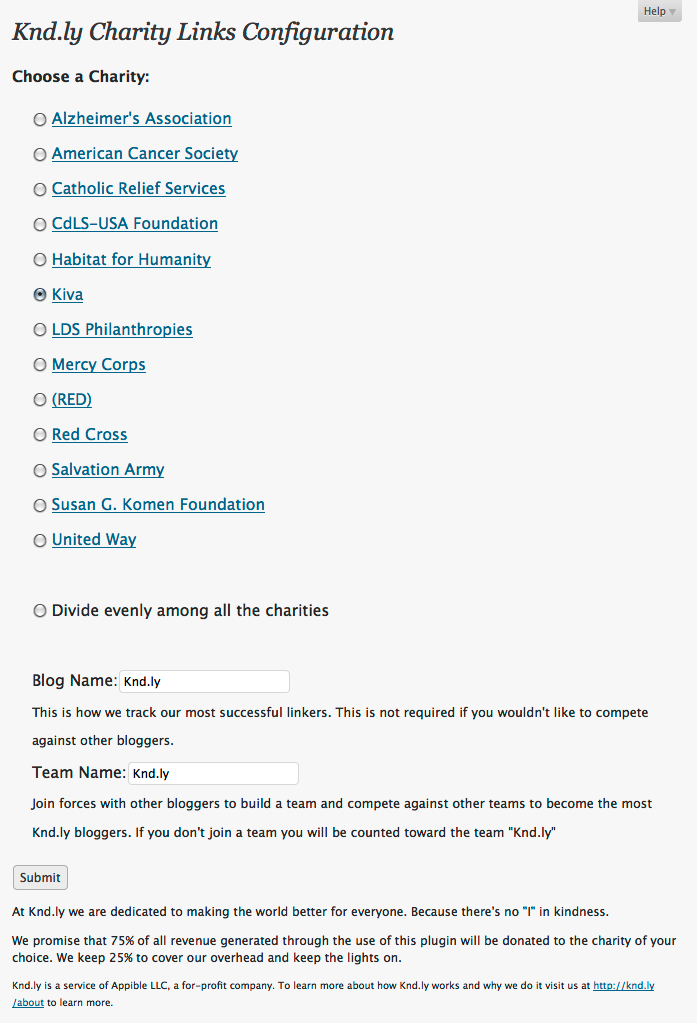
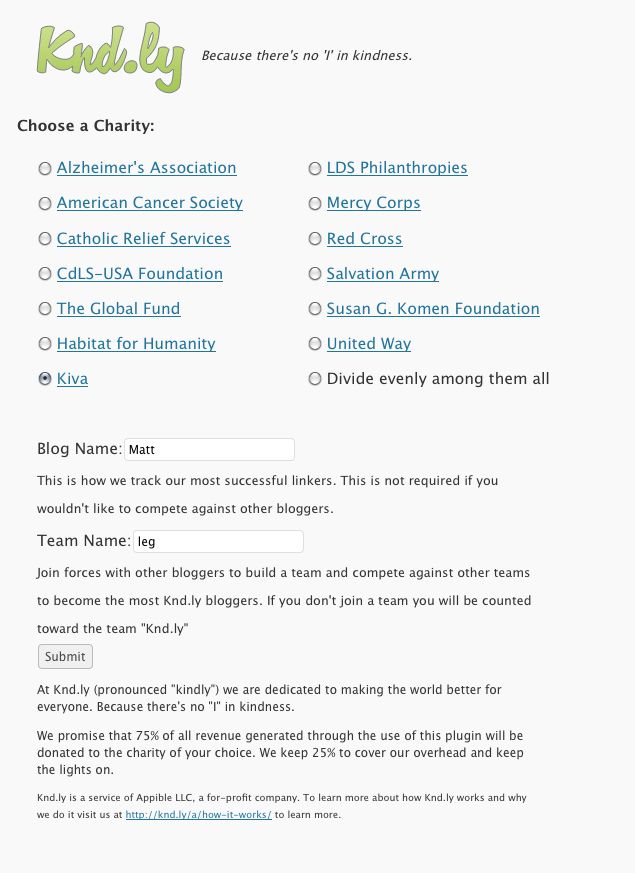
Updated the configuration page.
git-svn-id: https://plugins.svn.wordpress.org/kndly-charity-links/trunk@184070 b8457f37-d9ea-0310-8a92-e5e31aec5664

diff --git a/kndly-charity-links.php b/kndly-charity-links.php
@@ -4,7 +4,7 @@ Plugin Name: Knd.ly Charity Links
 Plugin URI: http://knd.ly/
 Description: Checks for links to Amazon products. If links are found they are converted in to clean affiliate links. All money generated through affiliate sales will be donated to the charity of your choice. <b>IMPORTANT NOTE</b>: the default option is for all money earned to be divided evenly between the charities we support. If you would like to support a specific charity (and donate much more money to them) you must choose that charity in the Knd.ly Config page.
 Author: Appible LLC
-Version: 1.0
+Version: 1.1
 Author URI: http://appible.org/
 */
 
@@ -69,7 +69,8 @@ function modify_menu_kndly_charity_links () {
   );  
 }
 function kndly_charity_links_options () {
-  echo '<div class="wrap"><h2>Knd.ly Charity Links Configuration</h2>';
+  echo '<div class="wrap"><br/><a href="http://knd.ly/"><img align="middle" src="'.WP_PLUGIN_URL.'/'.str_replace(basename( __FILE__),"",plugin_basename(__FILE__)).'kndly_logo.png"/></a>
+ <em>Because there\'s no \'I\' in kindness.</em>';
   if ($_REQUEST['submit']) {
     update_kndly_charity_links_options();
   }
@@ -149,7 +150,7 @@ function kndly_charity_links_form () {
   $form='
     <form method="post">
     <h3>Choose a Charity:</h3>
-	<div style="margin-left:20px; line-height:2.25;font-size:1.2em;">  
+	<div style="margin-left:20px;width:250px;line-height:2.25;font-size:1.2em;float:left;">  
     <input type="radio" name="kndly_charity_links_id" value="-kndly-alz" ';
   if($charity_id == "-kndly-alz") $form .= 'checked';
   $form .= '/> <a href="http://alz.org/">Alzheimer\'s Association</a><br/>
@@ -166,6 +167,10 @@ function kndly_charity_links_form () {
   if($charity_id == "-kndly-cdls") $form .= 'checked';
   $form .= '/> <a href="http://cdlsusa.org/">CdLS-USA Foundation</a><br/>
   
+    <input type="radio" name="kndly_charity_links_id" value="-kndly-globalfund" ';
+  if($charity_id == "-kndly-globalfund") $form .= 'checked';
+  $form .= '/> <a href="http://joinred.com/">The Global Fund</a><br/>
+  
     <input type="radio" name="kndly_charity_links_id" value="-kndly-habitat" ';
   if($charity_id == "-kndly-habitat") $form .= 'checked';
   $form .= '/> <a href="http://habitat.org/">Habitat for Humanity</a><br/>
@@ -173,7 +178,7 @@ function kndly_charity_links_form () {
     <input type="radio" name="kndly_charity_links_id" value="-kndly-kiva" ';
   if($charity_id == "-kndly-kiva") $form .= 'checked';
   $form .= '/> <a href="http://kiva.org/">Kiva</a><br/>
-
+    </div><div style="margin-left:20px;width:250px;line-height:2.25;font-size:1.2em;float:left;clear:right;">
     <input type="radio" name="kndly_charity_links_id" value="-kndly-lds" ';
   if($charity_id == "-kndly-lds") $form .= 'checked';
   $form .= '/> <a href="http://ldsphilanthropies.org/">LDS Philanthropies</a><br/>
@@ -181,10 +186,6 @@ function kndly_charity_links_form () {
     <input type="radio" name="kndly_charity_links_id" value="-kndly-mercycorps" ';
   if($charity_id == "-kndly-mercycorps") $form .= 'checked';
   $form .= '/> <a href="http://mercycorps.org/">  Mercy Corps</a><br/>
-  
-    <input type="radio" name="kndly_charity_links_id" value="-kndly-red" ';
-  if($charity_id == "-kndly-red") $form .= 'checked';
-  $form .= '/> <a href="http://joinred.com/">(RED)</a><br/>
   
     <input type="radio" name="kndly_charity_links_id" value="-kndly-redcross" ';
   if($charity_id == "-kndly-redcross") $form .= 'checked';
@@ -202,22 +203,22 @@ function kndly_charity_links_form () {
   if($charity_id == "-kndly-unitedway") $form .= 'checked';
   $form .= '/> <a href="http://liveunited.org/">United Way</a><br/>
 
-
-  <br/>
     <input type="radio" name="kndly_charity_links_id" value="-kndly" ';
   if($charity_id == "-kndly") $form .= 'checked';
-  $form .= '/> Divide evenly among all the charities<br/>
+  $form .= '/> Divide evenly among them all<br/>
+  </div>
+  <div style="margin-left:20px;width:500px;line-height:2.25;font-size:1.2em;float:left;clear:left;">
     <br />
 	Blog Name:<input type="text" name="kndly_blog_id" value="'.get_option('kndly_blog_id').'" />
 	<br/><small>This is how we track our most successful linkers. This is not required if you wouldn\'t like to compete against other bloggers.</small>
 	<br/>
 	Team Name:<input type="text" Name="kndly_team_id" value="'.get_option('kndly_team_id').'" />
 	<br/><small>Join forces with other bloggers to build a team and compete against other teams to become the most Knd.ly bloggers. If you don\'t join a team you will be counted toward the team "Knd.ly"</small>
-	</div>
+	
 	<br/>
     <input type="submit" name="submit" value="Submit" />
     </form>
-    <p>At Knd.ly we are dedicated to making the world better for everyone. Because there\'s no "I" in kindness.</p><p>We promise that 75% of all revenue generated through the use of this plugin will be donated to the charity of your choice. We keep 25% to cover our overhead and keep the lights on.</p><p><small>Knd.ly is a service of Appible LLC, a for-profit company. To learn more about how Knd.ly works and why we do it visit us at <a href="http://knd.ly/about">http://knd.ly/about</a> to learn more.</small></p>';
+    <p>At Knd.ly (pronounced "kindly") we are dedicated to making the world better for everyone. Because there\'s no "I" in kindness.</p><p>We promise that 75% of all revenue generated through the use of this plugin will be donated to the charity of your choice. We keep 25% to cover our overhead and keep the lights on.</p><p><small>Knd.ly is a service of Appible LLC, a for-profit company. To learn more about how Knd.ly works and why we do it visit us at <a href="http://knd.ly/a/how-it-works/">http://knd.ly/a/how-it-works/</a> to learn more.</small></p></div>';
   return $form;
 }
 
